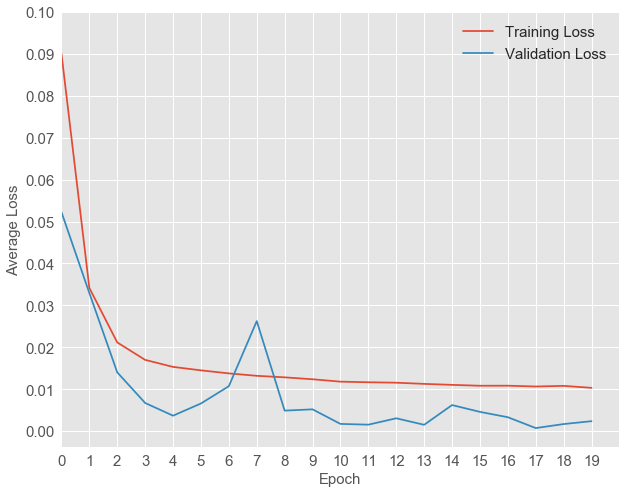
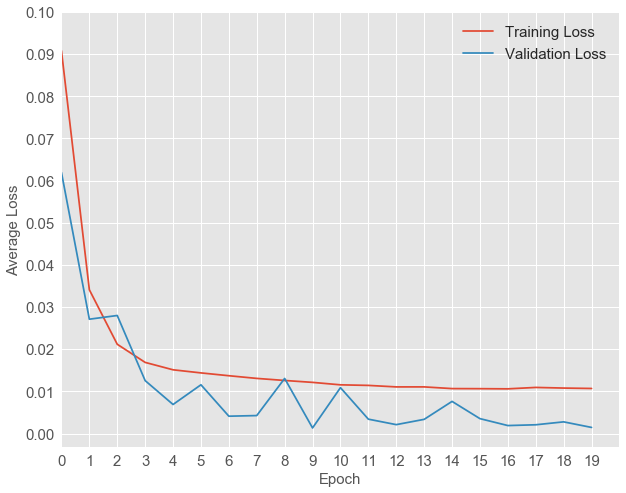
Rephrase some part of the blog post.

diff --git a/content/post/scoring-at-scale-with-keras-and-tensorflow-on-pivotal-greenplum.md b/content/post/scoring-at-scale-with-keras-and-tensorflow-on-pivotal-greenplum.md
@@ -23,22 +23,13 @@ This post shows how we use [Keras](https://keras.io/) and [TensorFlow](https://w
 
 We have many customers who use [Apache MADlib](http://madlib.incubator.apache.org/) to do machine learning on Greenplum; a good fit for users with SQL-based workflow proficiency. Apache MADlib itself offers a wide range of standard machine learning algorithms such as logistic regression, support vector machines or ensemble methods like random forest. MADlib provides highly performant and scalable ML model fitting and scoring when using Greenplum, due to the [Massively Parallel Processing](https://dwarehouse.wordpress.com/2012/12/28/introduction-to-massively-parallel-processing-mpp-database/) (MPP) architecture.
 
-For deep learning capabilities, popular tools like TensorFlow may be more convenient, especially if users are already familiar with them or want to do transfer learning from public models. Deep learning model training involves a huge amount of matrix multiplication - especially deep topologies - an embarrassingly parallel task GPUs are well-suited for. After a model is trained, it can be used in a standalone fashion for inference and prediction. However, if the data is extremely large scalability becomes a concern; for example, a bank might want to detect fraud on millions of transactions with the same model. Bulk analytical operations is an area of differentiation for Greenplum. In this post, we will show how a deep learning model trained with Keras and TensorFlow can be deployed and scored directly in Greenplum.
+For deep learning capabilities, popular tools like TensorFlow may be more convenient, especially if users are already familiar with them or want to do transfer learning from public models. Neural network model training involves a huge amount of matrix multiplication - especially deep topologies - an embarrassingly parallel task GPUs are well-suited for. After a model is trained, it can be used in a standalone fashion for inference and prediction. However, if the data is extremely large scalability becomes a concern; for example, a bank might want to detect fraud on millions of transactions with the same model. Bulk analytical operations is an area of differentiation for Greenplum. In this post, we will show how a deep learning model trained with Keras and TensorFlow can be deployed and scored directly in Greenplum.
 
 ## Example
 
 ### Dataset
 
-We will use a [dataset from Kaggle](https://www.kaggle.com/dalpozz/creditcardfraud) which contains anonymized transactions made by credit cards in September 2013 by European cardholders.
-
-This dataset has only around 285k transactions that occurred in two days. Specifically, it has 28 numerical features (V1, V2, .. V28) that are principal components obtained with [PCA](https://en.wikipedia.org/wiki/Principal_component_analysis), “Time” when the transactions was made and its corresponding “Amount”. Finally it also includes the dependent variable “Class” which is 1 in case of fraud and 0 otherwise.
-
-The dataset is highly unbalanced, the positive class (frauds) accounts for 0.172% of all transactions (see figure 1).
-
-{{< responsive-figure src="/images/scoring-at-scale-with-keras-and-tensorflow-on-pivotal-greenplum/distribution_classes_log_scale.png" class="center" >}}
-<p align="center">
-  Figure 1: Distribution of the two classes (log scale).
-</p>
+We will use a [dataset from Kaggle](https://www.kaggle.com/dalpozz/creditcardfraud) which contains anonymized transactions made by credit cards in September 2013 by European cardholders. This dataset has only around 285k transactions that occurred in two days. Specifically, it has 28 numerical features (V1, V2, .. V28) that are principal components obtained with [PCA](https://en.wikipedia.org/wiki/Principal_component_analysis), “Time” is how many times the card has been used and an aggregate “Amount”. Finally it also includes the dependent variable “Class” which is 1 in case of fraud and 0 otherwise. The dataset is highly unbalanced, the positive class (frauds) accounts for 0.172% of all transactions.
 
 ### Problem
 
@@ -75,23 +66,21 @@ Note:
 
 * Sigmoid is used as activation function at every node. We also tried ReLU but this didn't perform well.
 * Dropout is utilized to prevent overfitting.
-* For the loss function, we used binary crossentropy with RMSprop as optimizer (SGD also performed well but needed more epoch to converge).
+* For the loss function, we used binary crossentropy with RMSprop as optimizer (SGD also performed well but needed more iterations to converge).
 * We applied mini-batch training (batch_size=32, epoch=20) with early stopping (patience=4) on an AWS [g2.2xlarge instance](https://aws.amazon.com/ec2/instance-types/).
-* Stratified k-fold cross-validation where k=10 was also used at the end to evaluate the model against overfitting.
+* Stratified k-fold cross-validation with k=10 was also used at the end to evaluate the model against overfitting.
 
-The average loss convergence for both training and validation for each split can be found in figure 2. We can see that the training and validation loss is decreasing very fast which means that the learning rate is probably too high. However, since it is decreasing it is very good for us.
+The average loss convergence for both training and validation for each split can be found in figure 1. We can see that the training and validation loss is decreasing which is good for us as the network is actually learning something.
+
 
 {{< responsive-figure src="/images/scoring-at-scale-with-keras-and-tensorflow-on-pivotal-greenplum/average_loss.png" class="center" >}}
 <p align="center">
-  Figure 2: Average loss for epoch=20 with early stopping.
+  Figure 1: Average loss for epoch=20 with early stopping.
 </p>
 
-On average we get very high recall and precision values (~99%) for each run (see figure 3).
+_(Note: We can also see that the validation loss is lower than the training loss. The difference in training and validation loss is due to dropout which is turned off at validation time. Moreover the loss is decreasing very fast which implies a high learning rate. We probably could tune up the learning rate better to improve this.)_
 
-{{< responsive-figure src="/images/scoring-at-scale-with-keras-and-tensorflow-on-pivotal-greenplum/evaluation_metrics.png" class="center" >}}
-<p align="center">
-  Figure 3: Various evaluation metrics for the binary classification problem.
-</p>
+On average we get very high recall and precision values (~99%) for each run.
 
 ### Scoring on Greenplum
 
@@ -202,20 +191,17 @@ CREATE ORDERED AGGREGATE stack_rows(
 The scoring function that is dispatched to to each segments matrix/shard of data is shown below:
 
 ~~~
-CREATE OR REPLACE FUNCTION score_keras(_model text, _table text)
+CREATE OR REPLACE FUNCTION score_keras(_model text, _data_key text)
 RETURNS SETOF INTEGER[]
 AS
 $$
 
-    # Begin: Work around to import Tensorflow
+    # Begin: Workaround to import TensorFlow
     import sys
 
     sys.argv = {0: ""}
     __file__ = ""
-    # End: Work around to import Tensorflow
-
-    #import numpy as np
-    from os import getpid
+    # End: Workaround to import TensorFlow
 
     if 'model' not in SD:
         from keras.models import load_model
@@ -253,7 +239,7 @@ GROUP BY
 )
 
 SELECT
-    score_keras2(
+    score_keras(
         '/home/gpadmin/model_file.h5',
         stacked_input_key
     ) AS results
@@ -269,9 +255,11 @@ Note:
 
 ### Benchmark Results
 
+Below are the benchmarking results, scaling out to one week of transactions (roughly two million). The native series refers to using Keras and TensorFlow to perform scoring, the MPP series refers to the above procedure in Greenplum.
+
 {{< responsive-figure src="/images/scoring-at-scale-with-keras-and-tensorflow-on-pivotal-greenplum/benchmark_results.png" class="center" >}}
 <p align="center">
-  Figure 4: Benchmark results.
+  Figure 2: Benchmark results.
 </p>
 
 While a modest 2x speedup is achieved, testing was only possible on a single node; actual Greenplum clusters would exhibit an incremental speedup for each additional cluster node, in accordance with [Amdahl's Law](https://en.wikipedia.org/wiki/Amdahl%27s_law).
